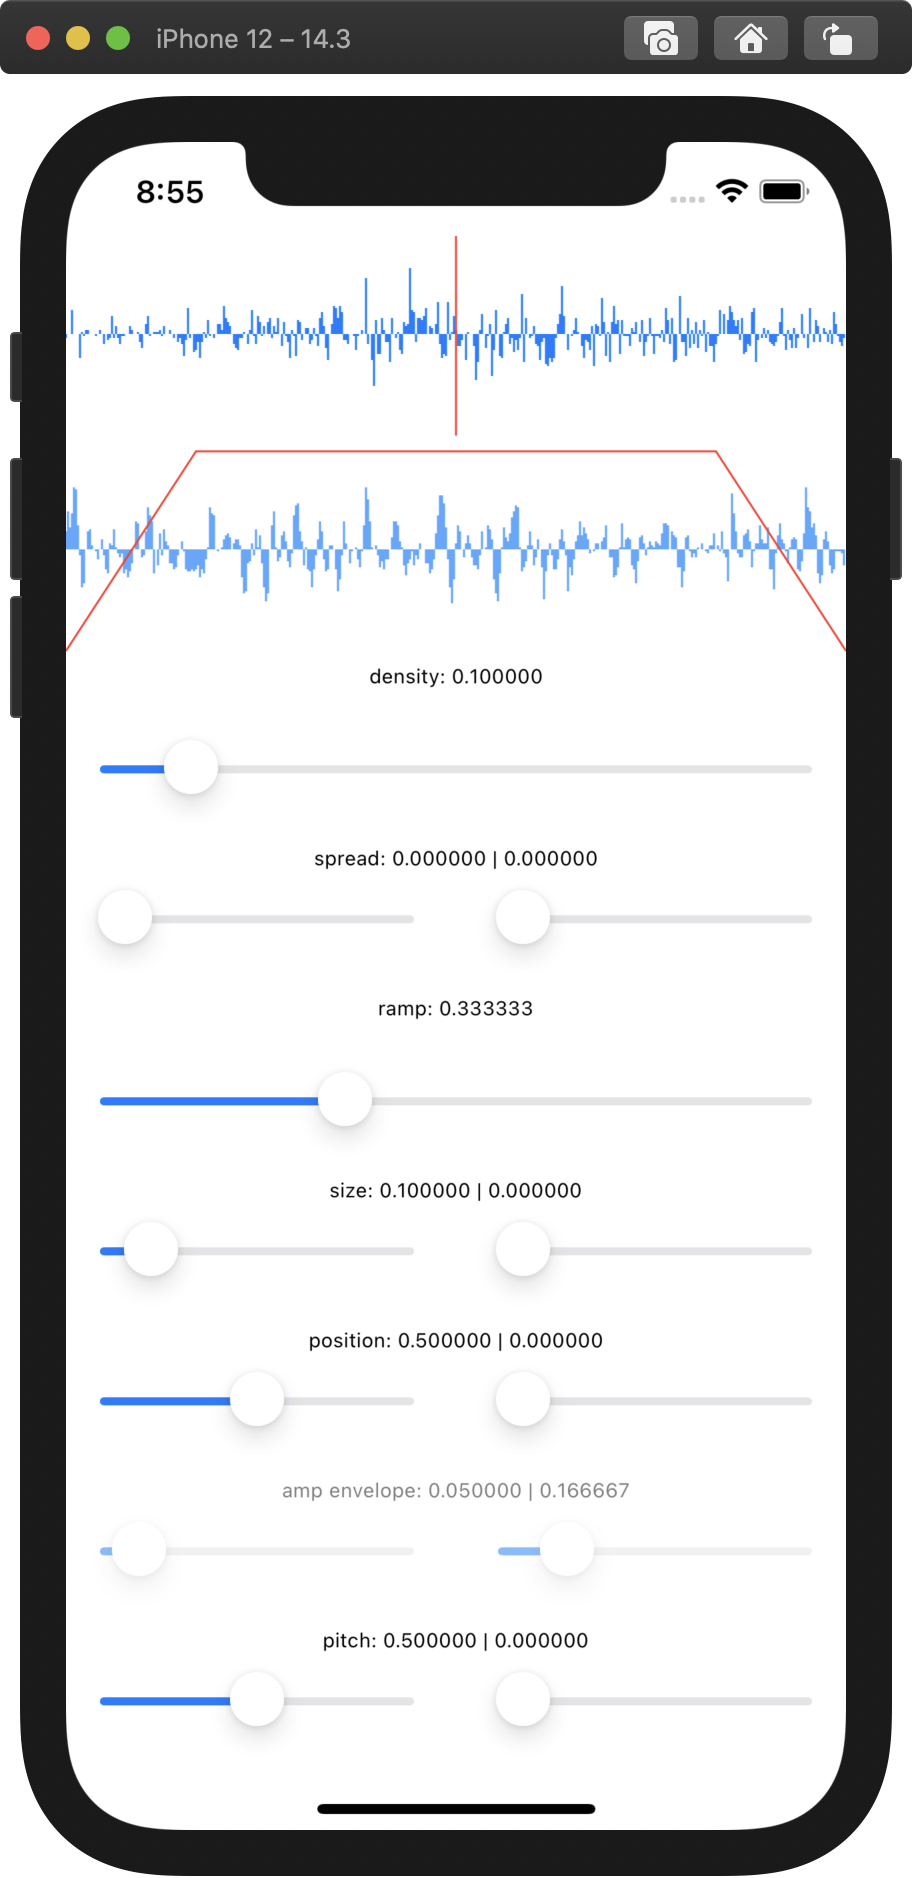
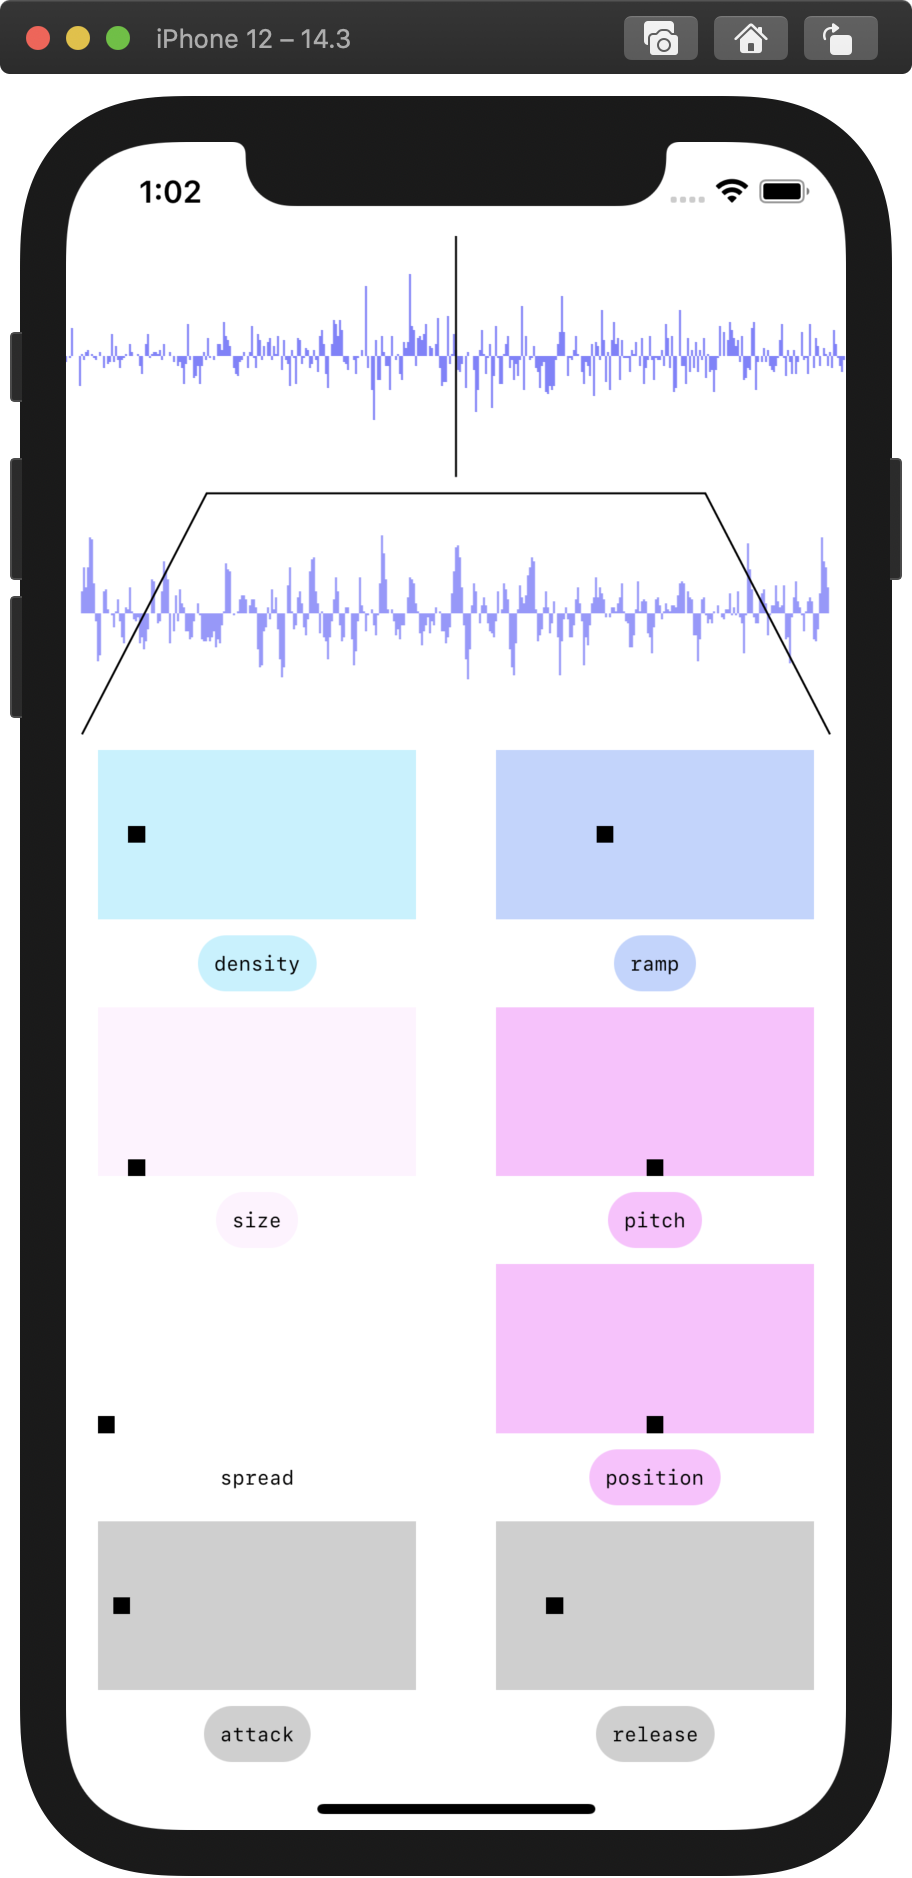
Custom controls instead of sliders (#4)
* adds custom control prototype

* cleanup view code

* try label below

* fix variables

* rework content view with new controls

* prettier

* clamp ramp input

* only show jitter if needed

* consolidate colors

* black cursor, more opacity

* tweak color math

* clamp before assigning

otherwise out of range values get passed to grain control

* show spread on grain view

* better disabled envelope controls

* update screen shot

diff --git a/GrainSwift/Views/GrainView.swift b/GrainSwift/Views/GrainView.swift
@@ -13,51 +13,61 @@ struct GrainView: View {
     let positionJitter: Double
     let sizeJitter: Double
     let ramp: Double
+    let spread: Double
     
     var body: some View {
-        ZStack {
-            GeometryReader { geometry in
-                ZStack {
-                    // draw wave view
-                    if let buffer = Grain.buffer {
-                        let start = UInt32(Double(Grain.bufferLength) * position)
-                        let end = start + Grain.length
-                        let startMax = start + Grain.indexJitter
-                        let endMax = startMax + Grain.length + Grain.lengthJitter
-                        ZStack {
-                            let steps = 10
-                            ForEach(0..<steps) { step in
-                                let perStep = 1.0 / Double(steps)
-                                
-                                // linterp unwrapped else compiler confused about types
-                                let progress = Double(step) * perStep
-                                let startProgress = Double(startMax - start) * progress
-                                let endProgress = Double(endMax - end) * progress
-                                let stepStart = start + UInt32(startProgress)
-                                let stepEnd = end + UInt32(endProgress)
-                                
-                                WaveView(buffer: buffer, start: stepStart, end: stepEnd).opacity(perStep)
+        GeometryReader { outerGeometry in
+            HStack {
+                Rectangle()
+                    .foregroundColor(.white)
+                    .frame(width: outerGeometry.size.width * CGFloat(spread) * 0.25, height: outerGeometry.size.height)
+
+                GeometryReader { geometry in
+                    ZStack {
+                        // draw wave view
+                        if let buffer = Grain.buffer {
+                            let start = UInt32(Double(Grain.bufferLength) * position)
+                            let end = start + Grain.length
+                            let startMax = start + Grain.indexJitter
+                            let endMax = startMax + Grain.length + Grain.lengthJitter
+                            ZStack {
+                                let steps = 10
+                                ForEach(0..<steps) { step in
+                                    let perStep = 1.0 / Double(steps)
+                                    
+                                    // linterp unwrapped else compiler confused about types
+                                    let progress = Double(step) * perStep
+                                    let startProgress = Double(startMax - start) * progress
+                                    let endProgress = Double(endMax - end) * progress
+                                    let stepStart = start + UInt32(startProgress)
+                                    let stepEnd = end + UInt32(endProgress)
+                                    
+                                    WaveView(buffer: buffer, start: stepStart, end: stepEnd).opacity(perStep)
+                                }
                             }
                         }
+                        // draw ramp
+                        Path { path in
+                            let halfWidth = CGFloat(geometry.size.width * 0.5)
+                            let floatRamp = CGFloat(ramp)
+                            path.move(to: CGPoint(x: 0, y: geometry.size.height))
+                            path.addLine(to: CGPoint(x: halfWidth * floatRamp, y:0))
+                            path.addLine(to: CGPoint(x: geometry.size.width - halfWidth * floatRamp, y:0))
+                            path.addLine(to: CGPoint(x: geometry.size.width, y: geometry.size.height))
+                        }.stroke(Style.foreground, lineWidth: 1)
                     }
-                    // draw ramp
-                    Path { path in
-                        let halfWidth = CGFloat(geometry.size.width * 0.5)
-                        let floatRamp = CGFloat(ramp)
-                        path.move(to: CGPoint(x: 0, y: geometry.size.height))
-                        path.addLine(to: CGPoint(x: halfWidth * floatRamp, y:0))
-                        path.addLine(to: CGPoint(x: geometry.size.width - halfWidth * floatRamp, y:0))
-                        path.addLine(to: CGPoint(x: geometry.size.width, y: geometry.size.height))
-                    }.stroke(Color.red, lineWidth: 1)
                 }
+                
+                Rectangle()
+                    .foregroundColor(.white)
+                    .frame(width: outerGeometry.size.width * CGFloat(spread) * 0.25, height: outerGeometry.size.height)
             }
         }
-        .edgesIgnoringSafeArea(.vertical)
     }
 }
 
 struct GrainView_Previews: PreviewProvider {
     static var previews: some View {
-        GrainView(position: 0.0, size: 0.0, positionJitter: 0.0, sizeJitter: 0.0, ramp: 0.5)
+        GrainView(position: 0.0, size: 0.0, positionJitter: 0.0, sizeJitter: 0.0, ramp: 0.5, spread: 0.0)
     }
 }

diff --git a/GrainSwift/Views/XYControlView.swift b/GrainSwift/Views/XYControlView.swift
@@ -1,0 +1,99 @@
+//
+//  XYControlView.swift
+//  GrainSwift
+//
+//  Created by lucas kuzma on 1/29/21.
+//
+
+import SwiftUI
+
+struct XYControlView: View {
+    var label = ""
+    @Binding var x: Double
+    @Binding var y: Double
+    var hasY: Bool = true
+    var onDrag: (() -> Void)?
+    @Environment(\.isEnabled) private var isEnabled
+    
+    init(label: String, x: Binding<Double>, onDrag: (() -> Void)? = nil) {
+        self.label = label
+        _x = x
+        _y = .constant(0.5)
+        hasY = false
+        self.onDrag = onDrag
+    }
+    
+    init(label: String, x: Binding<Double>, y: Binding<Double>, onDrag: (() -> Void)? = nil) {
+        self.label = label
+        _x = x
+        _y = y
+        self.onDrag = onDrag
+    }
+    
+    var body: some View {
+        
+        VStack {
+            let color = isEnabled ? Style.colorFor(x: x, y: y) : Style.disabled
+            
+            GeometryReader { geometry in
+                ZStack {
+                    // background
+                    Rectangle()
+                        .foregroundColor(color)
+                    
+                    // calculate cursor position
+                    let cursorSize: CGFloat = min(geometry.size.width, geometry.size.height) * 0.1
+                    let width = geometry.size.width - cursorSize
+                    let height = geometry.size.height - cursorSize
+                    let xPos = cursorSize * 0.5 + CGFloat(x) * width
+                    let yPos = geometry.size.height - (cursorSize * 0.5 + CGFloat(y) * height)
+                    
+                    // cursor
+                    Rectangle()
+                        .frame(width: cursorSize, height: cursorSize, alignment: .center)
+                        .position(x: xPos, y: yPos)
+                    
+                    // jitter
+                    if hasY {
+                        let yFactor: CGFloat = 24.0 * CGFloat(y)
+                        Rectangle()
+                            .frame(width: cursorSize + yFactor, height: 1, alignment: .center)
+                            .position(x: xPos, y: yPos)
+                            .clipped()
+                    }
+                    
+                    // touch control
+                    Rectangle()
+                        .inset(by: cursorSize / 2.0)
+                        .gesture(
+                            DragGesture(minimumDistance: 0, coordinateSpace: .local)
+                                .onChanged { value in
+                                    x = clamp(Double(value.location.x / geometry.size.width), minValue: 0, maxValue: 1.0)
+                                    y = clamp(1.0 - Double(value.location.y / geometry.size.height), minValue: 0, maxValue: 1.0)
+                                    onDrag?()
+                                }
+                                .onEnded { _ in
+                                }
+                        )
+                        .foregroundColor(Color(white: 1.0, opacity: 0.0001)) // clear view ignores touches
+                }
+            }.padding(.horizontal)
+        
+        Text(label)
+            .font(.system(size: 10, design: .monospaced))
+            .padding(8)
+            .foregroundColor(.black)
+            .background(color)
+            .cornerRadius(40)
+        }
+    }
+}
+
+struct XYControlView_Previews: PreviewProvider {
+    @State static var x = 0.5
+    @State static var y = 0.5
+    static var previews: some View {
+        XYControlView(label: "density", x: $x, y: $y)
+            .frame(width: 120.0, height: 80.0)
+    }
+}

diff --git a/GrainSwift/Views/ContentView.swift b/GrainSwift/Views/ContentView.swift
@@ -28,24 +28,40 @@ struct ContentView: View {
                     size: audio.grainControl.size,
                     positionJitter: audio.grainControl.positionJitter,
                     sizeJitter: audio.grainControl.sizeJitter,
-                    ramp: audio.grainControl.ramp)
+                    ramp: audio.grainControl.ramp,
+                    spread: audio.grainControl.spread)
             }
             
-            ControlSliderView(name: "density", value: $audio.grainControl.density)
-            ControlTwinSliderView(name: "spread", valueOne: $audio.grainControl.spread, valueTwo: $audio.grainControl.spreadJitter)
-            ControlSliderView(name: "ramp", value: $audio.grainControl.ramp)
+            HStack {
+                XYControlView(label: "density", x: $audio.grainControl.density)
+                XYControlView(label: "ramp", x: $audio.grainControl.ramp)
+            }
             
-            ControlTwinSliderView(name: "size", valueOne: $audio.grainControl.size, valueTwo: $audio.grainControl.sizeJitter)
-            ControlTwinSliderView(name: "position", valueOne: $audio.grainControl.position, valueTwo: $audio.grainControl.positionJitter, onDrag: {
-                if !isTouchingPosition {
-                    audio.grainControl.ampHold = true
-                }
-            } )
+            HStack {
+                XYControlView(label: "size", x: $audio.grainControl.size, y: $audio.grainControl.sizeJitter)
+                XYControlView(label: "pitch", x: $audio.grainControl.pitch, y: $audio.grainControl.pitchJitter)
+            }
             
-            ControlTwinSliderView(name: "amp envelope", valueOne: $audio.grainControl.ampAttackTime, valueTwo: $audio.grainControl.ampReleaseTime)
-                .opacity(audio.grainControl.ampHold ? 0.5 : 1.0)
+            HStack {
+                XYControlView(label: "spread", x: $audio.grainControl.spread, y: $audio.grainControl.spreadJitter)
+                XYControlView(
+                    label: "position",
+                    x: $audio.grainControl.position,
+                    y: $audio.grainControl.positionJitter,
+                    onDrag: {
+                        if !isTouchingPosition {
+                            audio.grainControl.ampHold = true
+                        }
+                    })
+            }
             
-            ControlTwinSliderView(name: "pitch", valueOne: $audio.grainControl.pitch, valueTwo: $audio.grainControl.pitchJitter)
+            HStack {
+                XYControlView(label: "attack", x: $audio.grainControl.ampAttackTime)
+                XYControlView(label: "release", x: $audio.grainControl.ampReleaseTime)
+            }
+            .disabled(audio.grainControl.ampHold)
+            
+            
         }
     }
 }

diff --git a/GrainSwift/Views/Style.swift b/GrainSwift/Views/Style.swift
@@ -1,0 +1,29 @@
+//
+//  Style.swift
+//  GrainSwift
+//
+//  Created by lucas kuzma on 1/30/21.
+//
+
+import Foundation
+import SwiftUI
+
+struct Style {
+    static func colorFor(x: Double, y: Double) -> Color {
+        return Color(red: 1.0 - y, green: 1.0 - x, blue: 1.0, opacity: 0.5)
+    }
+    
+    static var foreground: Color {
+        get {
+            return Color(.black)
+        }
+    }
+    
+    static var background: Color {
+        get {
+            return Self.colorFor(x: 1, y: 1)
+        }
+    }
+    
+    static var disabled: Color = Color(white: 0.25, opacity: 0.25)
+}

diff --git a/GrainSwift/Audio/GrainControl.swift b/GrainSwift/Audio/GrainControl.swift
@@ -140,7 +140,8 @@ final class GrainControl : ObservableObject {
             return Double(Grain.ramp) / maxRamp
         }
         set {
-            let newSize: AVAudioFrameCount = AVAudioFrameCount(newValue * maxRamp)
+            let newValueClamped = clamp(newValue, minValue: 0, maxValue: 1)
+            let newSize: AVAudioFrameCount = AVAudioFrameCount(newValueClamped * maxRamp)
             let maxSizeClamped = min(AVAudioFrameCount(maxRamp), Grain.bufferLength)
             Grain.ramp = clamp(newSize, minValue: 0, maxValue: maxSizeClamped)
             objectWillChange.send()

diff --git a/GrainSwift/Views/PositionControlView.swift b/GrainSwift/Views/PositionControlView.swift
@@ -19,7 +19,7 @@ struct PositionControlView: View {
                     path.move(to: CGPoint(x: x, y: 0))
                     path.addLine(to: CGPoint(x: x, y:geometry.size.height))
                 }
-                .stroke(Color.red, lineWidth: 1 + CGFloat(audio.grainControl.positionJitter * 8.0))
+                .stroke(Style.foreground, lineWidth: 1 + CGFloat(audio.grainControl.positionJitter * 8.0))
                 .blur(radius: CGFloat(audio.grainControl.positionJitter * 10.0))
 
                 Rectangle()

diff --git a/GrainSwift/Views/WaveView.swift b/GrainSwift/Views/WaveView.swift
@@ -46,7 +46,7 @@ struct WaveView: View {
                             path.addLine(to: CGPoint(x: x, y: y)
                             )
                         }
-                    }.stroke(Color.blue, lineWidth: 1)
+                    }.stroke(Style.background, lineWidth: 1)
                 }
             }
         }
